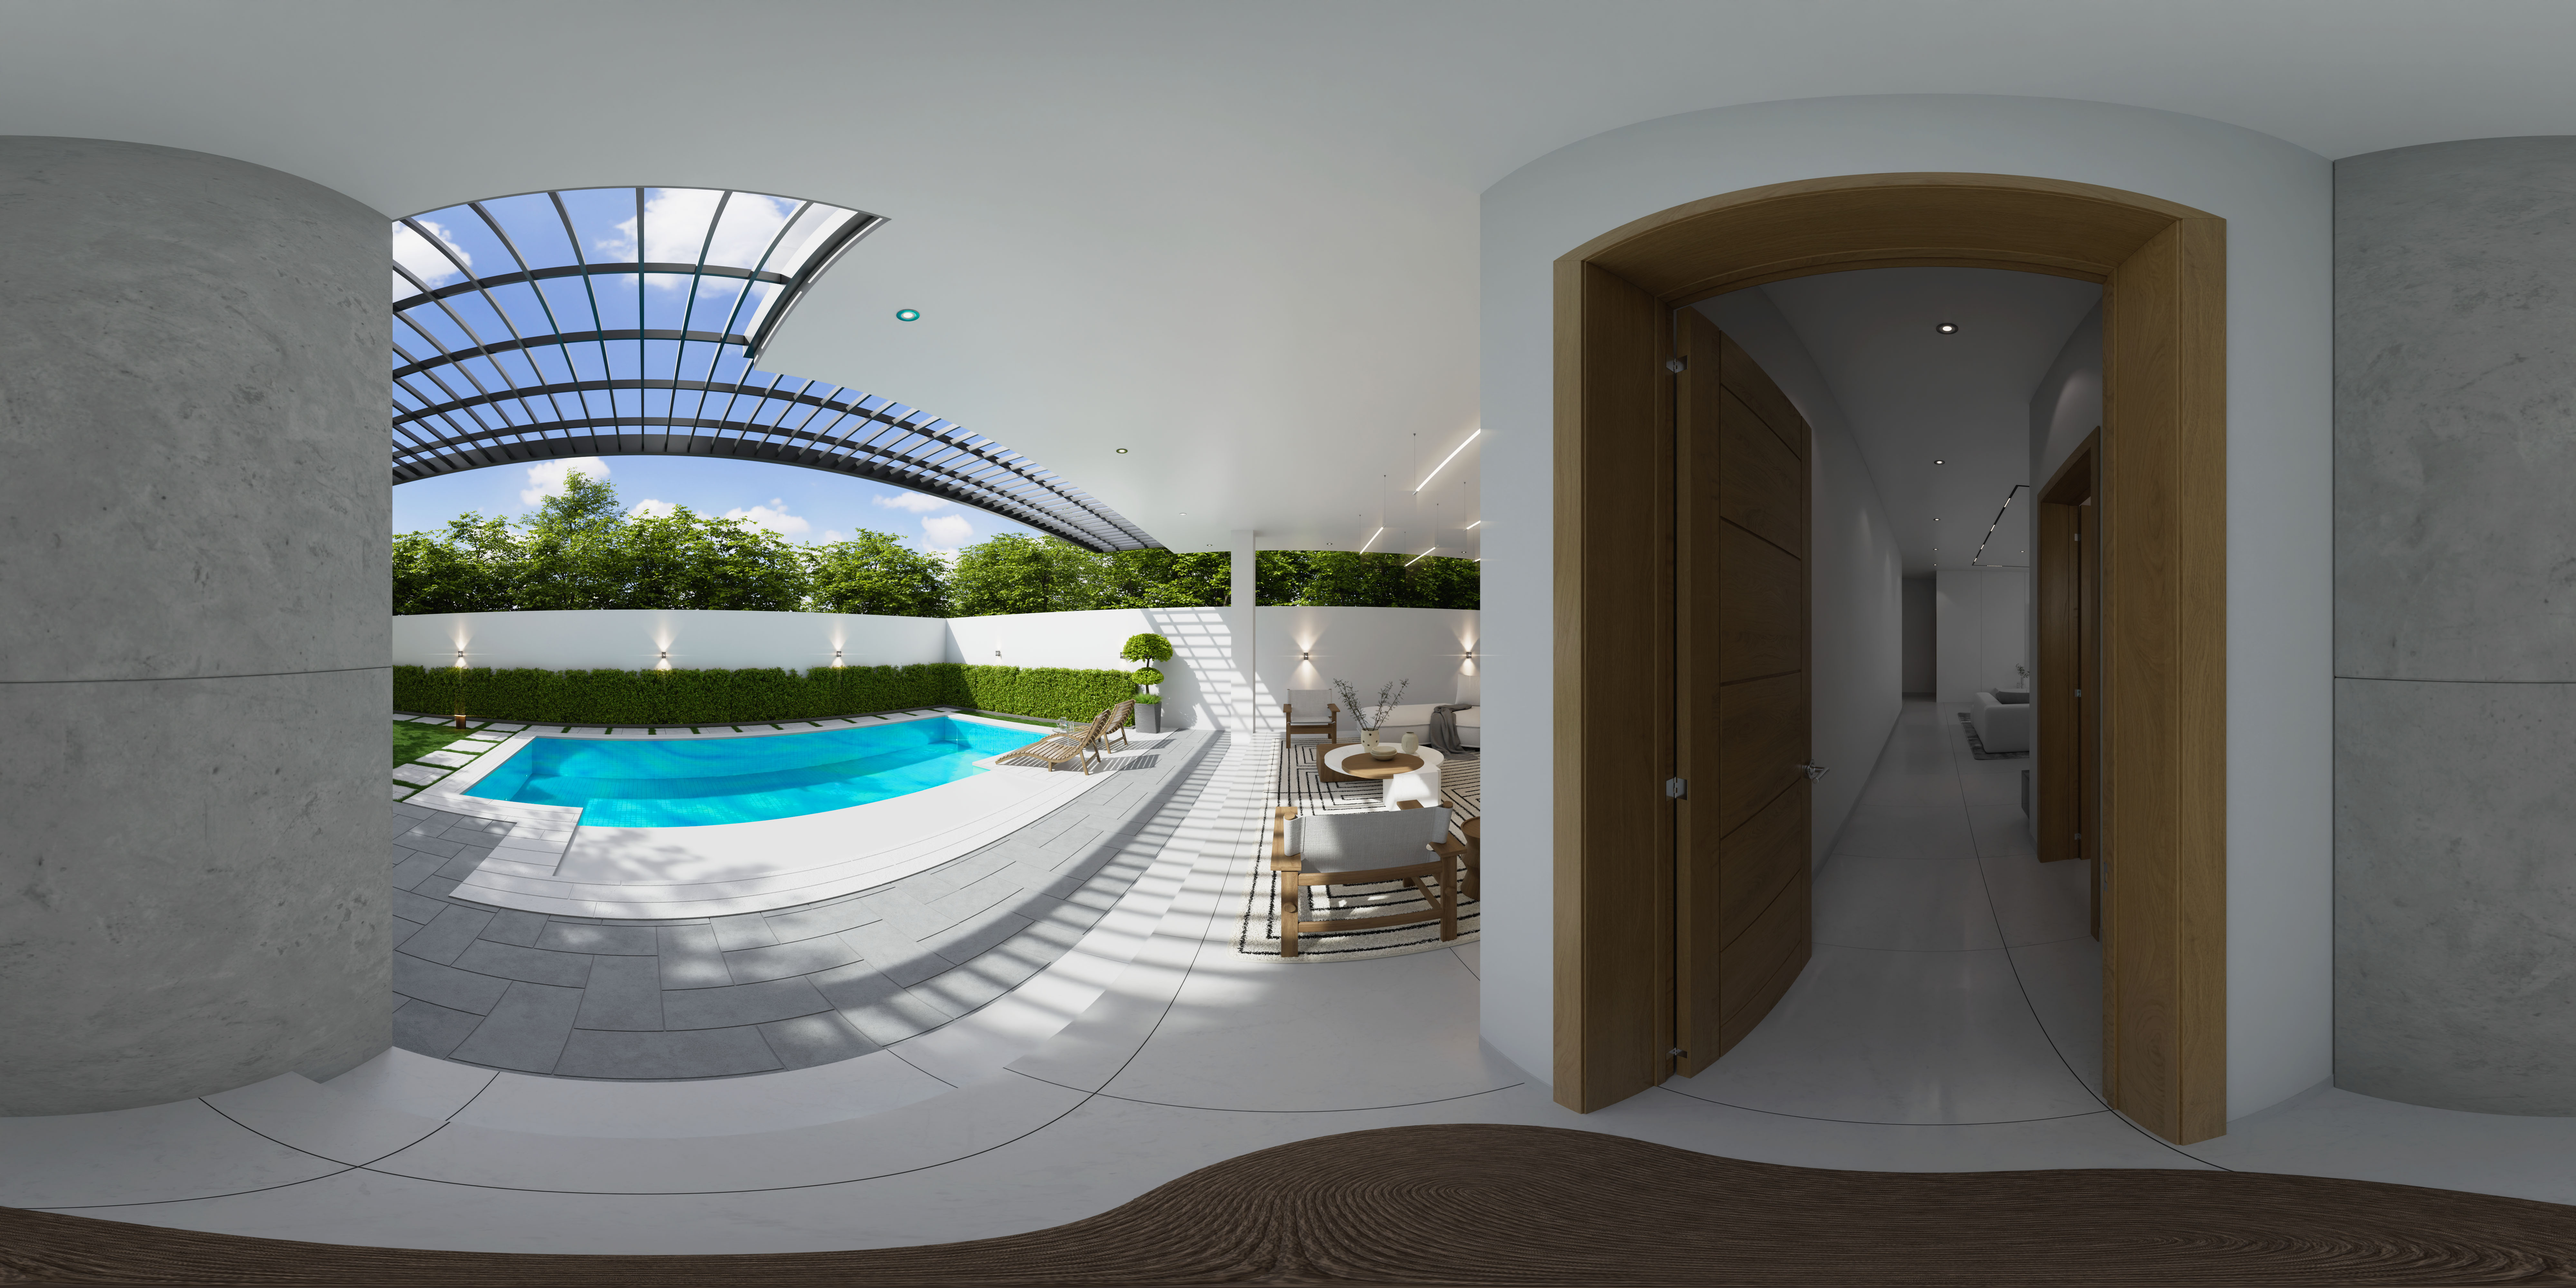
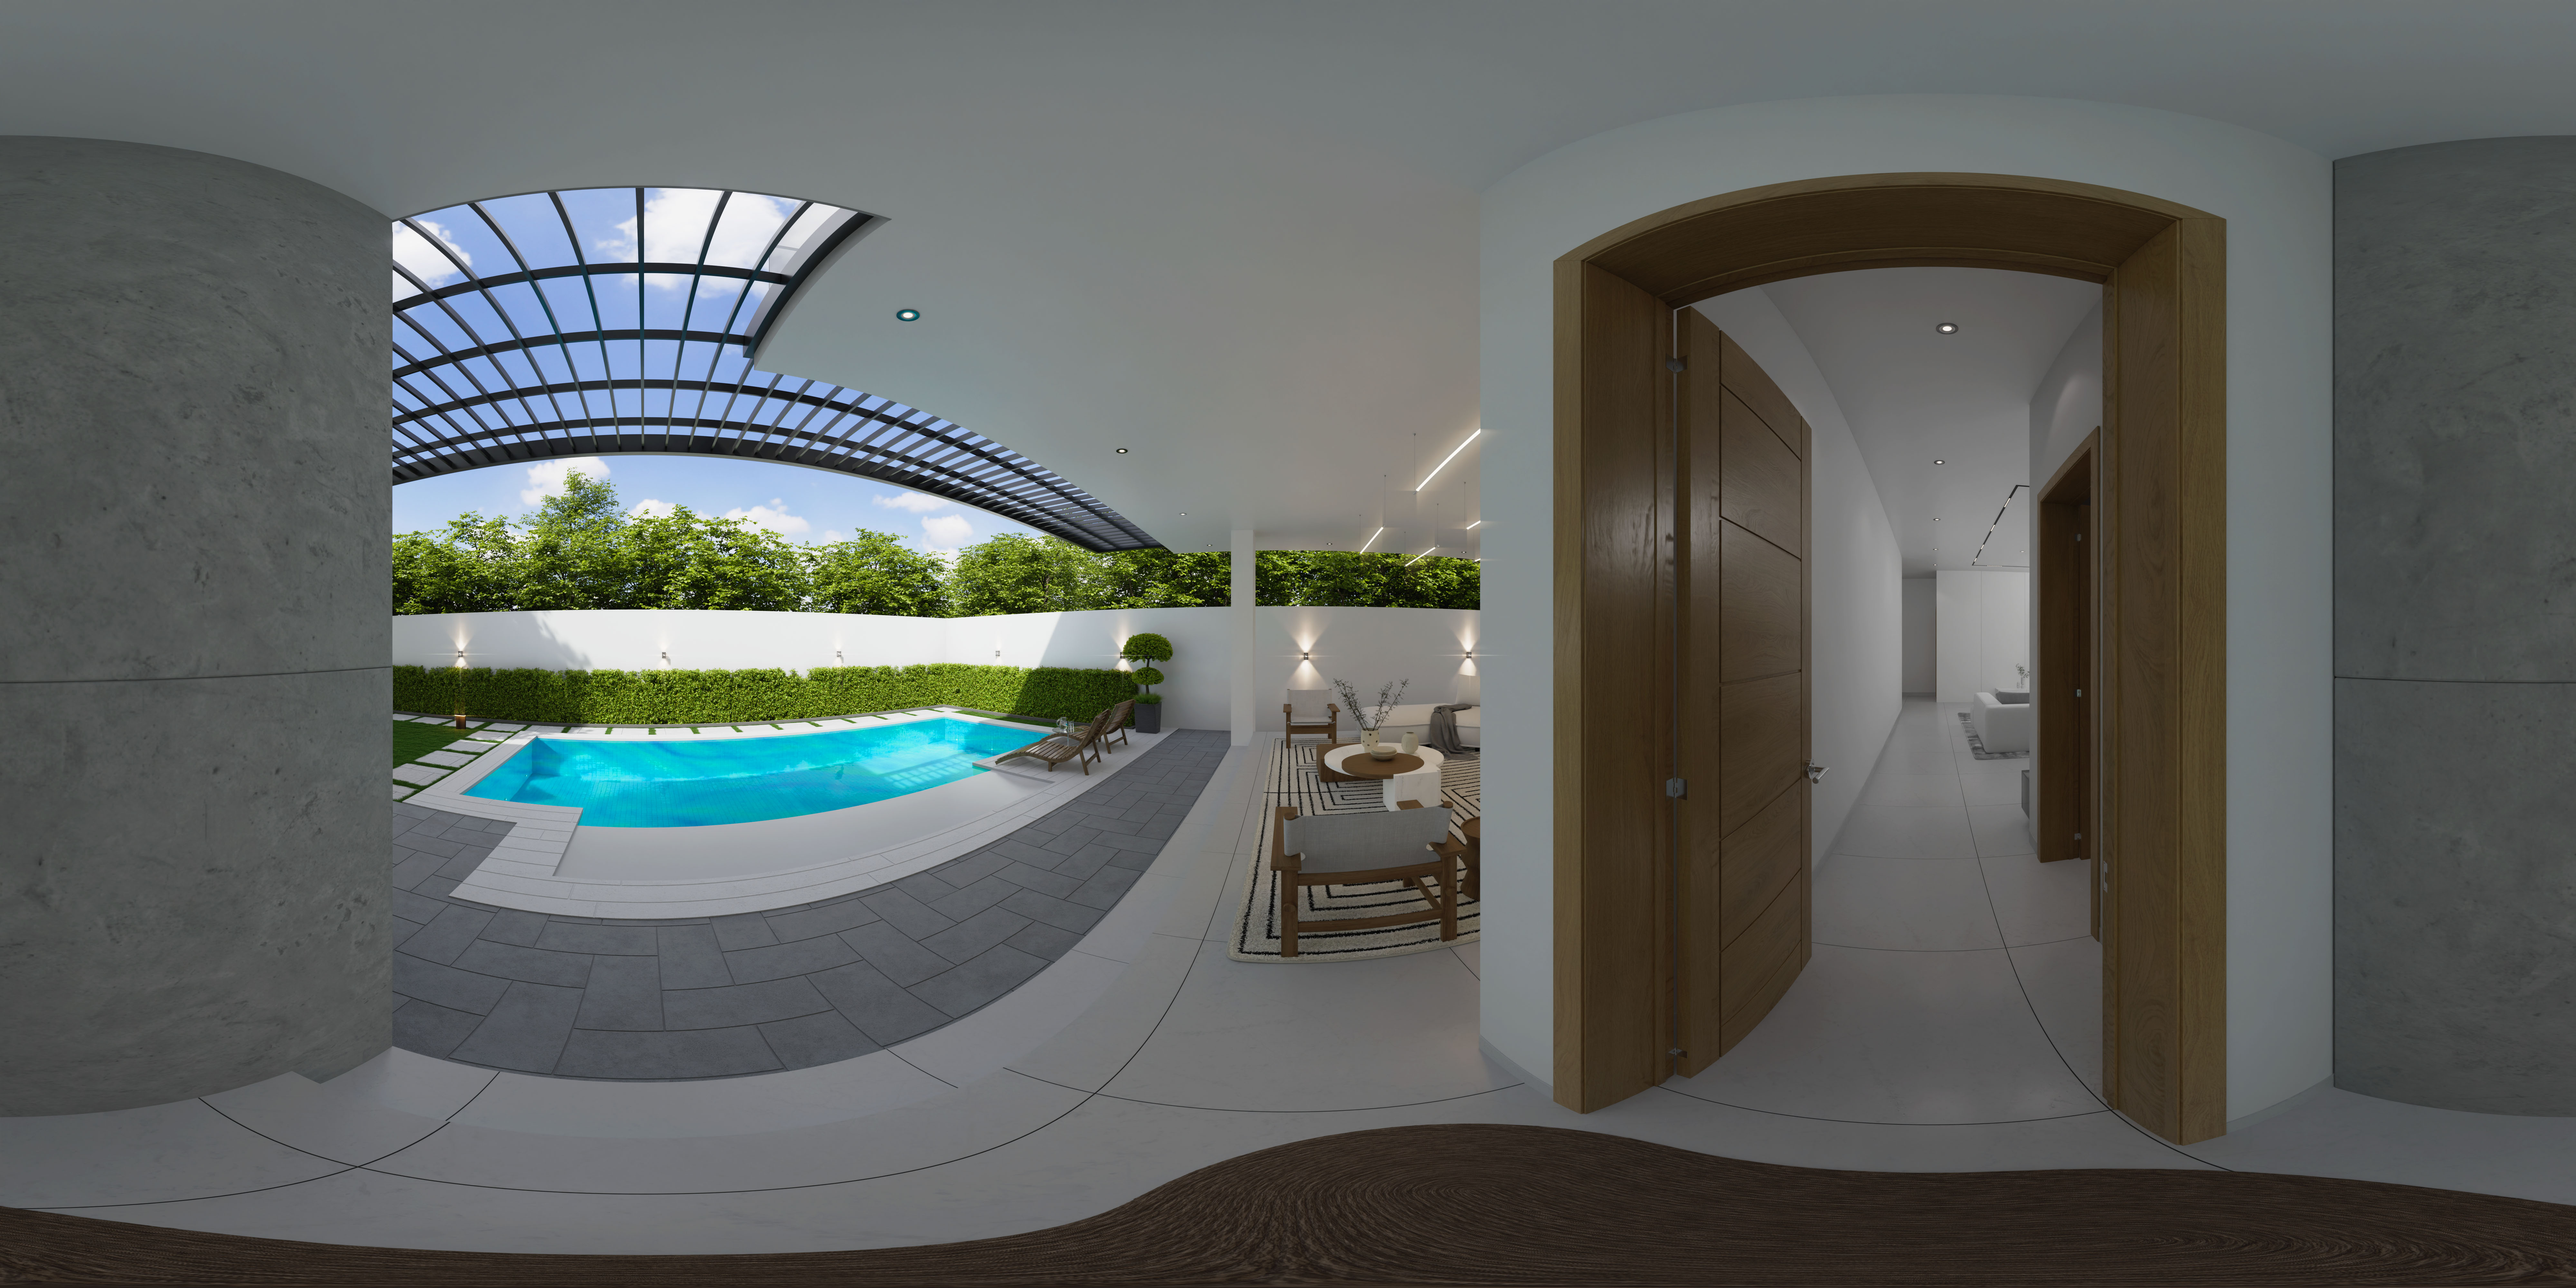
Villa Sarr 33

diff --git a/index.html b/index.html
@@ -1009,7 +1009,7 @@
             the_group_to_activate.setAttribute('visible', 'true')
             the_group_to_activate.setAttribute('scale', '1 1 1')
         }
-        setStrat(36)
+        setStrat(0)
 
         AFRAME.registerComponent('the_dote', {
             schema: { Name_of_dote: { type: 'string', default: '#Name', }, Group_to_activate: { type: 'string', default: '#Position', }, The_rotation: { type: 'string', default: '0', } },
